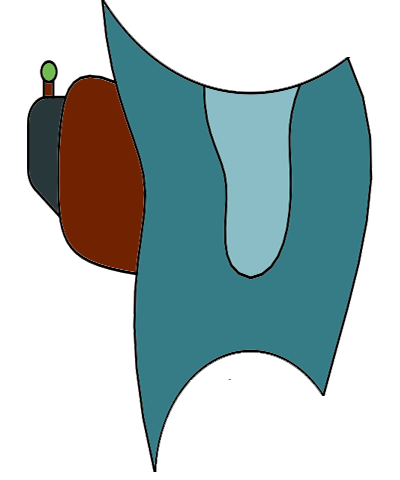
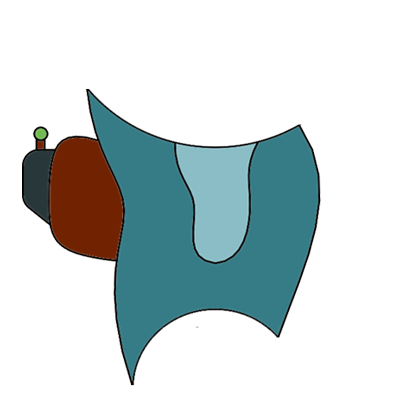
facing animation working altough not perfect

diff --git a/app/assets/stylesheets/components/_curioso.scss b/app/assets/stylesheets/components/_curioso.scss
@@ -117,74 +117,65 @@ $arm-movement: -2%;
 .left {
   .curi-wheels {
     background-image: asset-url('rueda-lado.png');
-    animation-name: wheels-idle;
-    animation-duration: 0.5s;
-    top: $wheels-position;
+    z-index:1;
   }
 
-.curi-body {
-  background-image: asset-url('cuerpo-der.png');
-  transform: rotateY(180deg);
-  animation-name: body-idle;
-  animation-duration: 0.75s;
-  top: $body-position;
-  left: -3%;
-}
+  .curi-body {
+    background-image: asset-url('cuerpo-der.png');
+    transform: rotateY(180deg);
+  }
 
-.curi-head {
-  background-image: asset-url('head-der.png');
-  transform: rotateY(180deg);
-  animation-name: head-idle;
-  animation-duration: 1s;
-  top: $head-position;
-  left: -5%;
-}
+  .curi-head {
+    background-image: asset-url('head-der.png');
+    transform: rotateY(180deg);
+  }
+
+  .curi-left-arm {
+    display:none;
+  }
+
+  .curi-right-arm {
+   display:none;
+ }
+
 }
 
 .right {
 
-.curi-wheels {
-  background-image: asset-url('rueda-lado.png');
-  animation-name: wheels-idle;
-  animation-duration: 0.5s;
-  top: $wheels-position;
+  .curi-wheels {
+    background-image: asset-url('rueda-lado.png');
+    z-index:1;
+  }
+
+  .curi-body {
+    background-image: asset-url('cuerpo-der.png');
+    left: -3%;
+  }
+
+  .curi-head {
+    background-image: asset-url('head-der.png');
+    left: -5%;
+  }
+
+  .curi-left-arm {
+    display:none;
+  }
+
+  .curi-right-arm {
+   display:none;
+ }
+
 }
 
-.curi-body {
-  background-image: asset-url('cuerpo-der.png');
-  animation-name: body-idle;
-  animation-duration: 0.75s;
-  top: $body-position;
-  left: -3%;
-}
+.back {
 
-.curi-head {
-  background-image: asset-url('head-der.png');
-  animation-name: head-idle;
-  animation-duration: 1s;
-  top: $head-position;
-  left: -5%;
-}
+  .curi-head {
+    background-image: asset-url('cabeza-atras.png');
+  }
 
-}
-
-.behind {
-
-.curi-head {
-  background-image: asset-url('head-der.png');
-  animation-name: head-idle;
-  animation-duration: 1s;
-  top: $head-position;
-  left: -5%;
-}
-
-.curi-body {
-  background-image: asset-url('head-der.png');
-  animation-name: body-idle;
-  animation-duration: 0.75s;
-  top: $body-position;
-  left: -3%;
-}
+  .curi-body {
+    background-image: asset-url('cuerpo-atras.png');
+  }
 }
 
 
